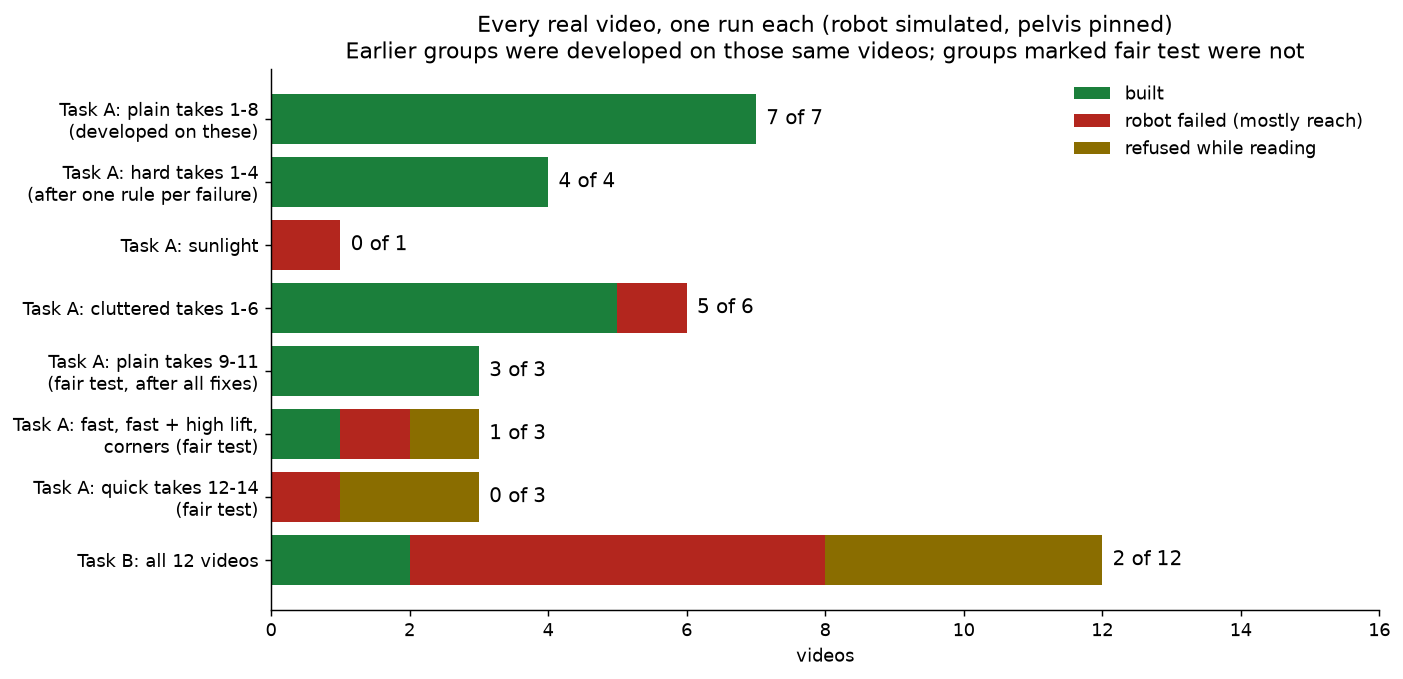
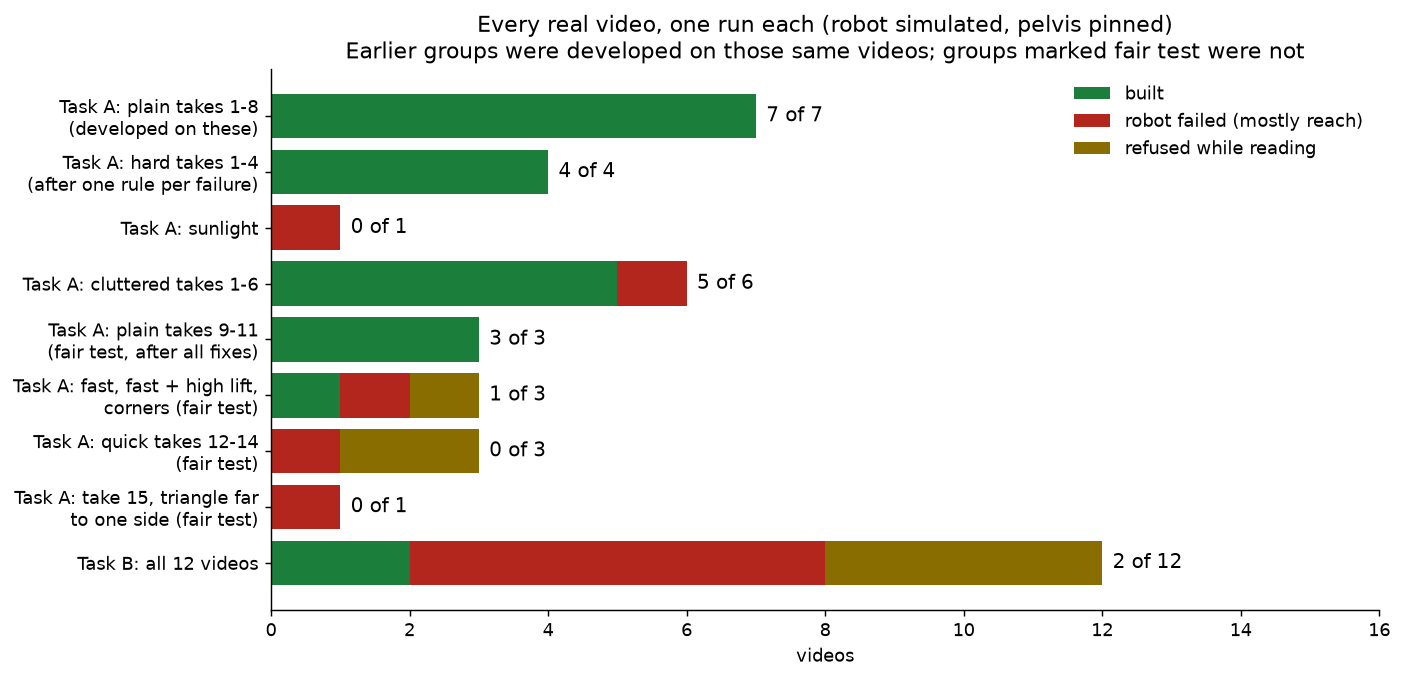
docs: results corrected - take 15 counted, quick moves all refused, no-AI baseline 3 of 9

diff --git a/scripts/make_analysis_charts.py b/scripts/make_analysis_charts.py
@@ -31,6 +31,7 @@ REAL_GROUPS = [
     ("Task A: plain takes 9-11\n(fair test, after all fixes)", 3, 0, 0),
     ("Task A: fast, fast + high lift,\ncorners (fair test)", 1, 1, 1),
     ("Task A: quick takes 12-14\n(fair test)", 0, 1, 2),
+    ("Task A: take 15, triangle far\nto one side (fair test)", 0, 1, 0),
     ("Task B: all 12 videos", 2, 6, 4),
 ]
 

diff --git a/CLAUDE.md b/CLAUDE.md
@@ -56,4 +56,4 @@ PYTHONPATH=. .venv/bin/python scripts/stress_retry.py   # measure what retries a
 - Target 80% test coverage on logic modules, writing tests first. Check simulator visuals and model wrappers through phase gates.
 
 ## Current status
-Real-video pipeline works on the user's steel glasses, with no marker: `scripts/glass_from_video.py`. Task A from `task2_triangle_right_take1` builds the triangle (one run). Task B from `task3_flip_right_take1` builds and flips with no glass moved (one run): the layout picks the arm and standing spot, and the robot starts there, since it can't walk. Standing-spot tests: 19 of 21 on the video's layout wobbled, 25 of 30 on random layouts (`scripts/stand_test.py`). Task A uses the nearest arm: 24 of 30 against 10 of 30 for the right arm on left-side layouts, no gain on spread layouts. Robot area tests: 28 of 30 for each task, pinned pelvis. Eight later Task A takes: 0 succeeded with the reader as it stood; after adding a rule for an unseen top glass, 4 were read and 2 succeeded with the left arm (takes 2 and 5, not a fair test of that rule). Four are refused because a starting glass is missed. Fair test of six later Task B takes in varied layouts: 0 succeeded (three refused, three robot failures). In a layout chosen to suit the robot, take 8 was refused and take 9 succeeded, with nothing changed (one run; that layout passed 3 of 6 when nudged). Optional two arms for Task A (`--two-arms`): a tie on random layouts (20 against 20, 22 against 21 of 30), better on takes 4 and 6, and real take 6 succeeds. Optional hand path (`--hand-path`, Task A): the robot copies the height and timing of the hand's carry, and takes 1, 2, 5 and 6 succeed (not a fair test). Optional VLM (Claude, key in `.env`): `--instruction` and `--find-glasses`. Task A is 8 of 9 real videos built with it (not a fair test), and in 10 of 10 cluttered simulated scenes it found exactly the glasses. Optional outcome model (`--choose-arms`): 26 of 30 fresh layouts, against 25 for a hand rule. With `--find-glasses --choose-arms`, 8 of 9 real Task A videos build with no options set by hand. Sorting (marker and colours) is earlier work, never run on real footage. Live hand control was built, tested live and removed on 4 Nov as unreliable (14-22% of frames followed in later tries); it's in git history, and its finger-closure measurement lives on in `src/perception/finger_closure.py`. Step checks (`src/verification/steps.py`) name the first failed step of every run: real Task B takes 2, 3 and 7 fail at reach, and standing 10 cm closer rescued take 2 (one run, not yet a rule). `notes.md` Part Two (chapters 14-20) covers the real videos and must be kept as a beginner's book with worked examples. The project's API key is named `VIDEO2ROBOT_CLAUDE_KEY`, not `ANTHROPIC_API_KEY`, because VS Code loads `.env` into terminals and Claude Code would otherwise bill coding to it. Claude now reads the first and last frames (`--find-glasses`), with rules for clutter, unused glasses, glints and hidden glasses: Task A builds 20 of the 27 videos kept, 20 of 29 counting 2 deleted as out of reach (not a fair test; fresh videos were 0 of 7 on their fair first run). The arm swap lifts the hands off the table with the waist held still. SAM 2 (optional, `.venv-sam`, `--sam-tracks`) follows glasses by shape and timed the sunlight video correctly, slowly. Every experiment goes in `docs/JOURNEY.md`. The repo is private until the user says otherwise.
+Real-video pipeline works on the user's steel glasses, with no marker: `scripts/glass_from_video.py`. Task A from `task2_triangle_right_take1` builds the triangle (one run). Task B from `task3_flip_right_take1` builds and flips with no glass moved (one run): the layout picks the arm and standing spot, and the robot starts there, since it can't walk. Standing-spot tests: 19 of 21 on the video's layout wobbled, 25 of 30 on random layouts (`scripts/stand_test.py`). Task A uses the nearest arm: 24 of 30 against 10 of 30 for the right arm on left-side layouts, no gain on spread layouts. Robot area tests: 28 of 30 for each task, pinned pelvis. Eight later Task A takes: 0 succeeded with the reader as it stood; after adding a rule for an unseen top glass, 4 were read and 2 succeeded with the left arm (takes 2 and 5, not a fair test of that rule). Four are refused because a starting glass is missed. Fair test of six later Task B takes in varied layouts: 0 succeeded (three refused, three robot failures). In a layout chosen to suit the robot, take 8 was refused and take 9 succeeded, with nothing changed (one run; that layout passed 3 of 6 when nudged). Optional two arms for Task A (`--two-arms`): a tie on random layouts (20 against 20, 22 against 21 of 30), better on takes 4 and 6, and real take 6 succeeds. Optional hand path (`--hand-path`, Task A): the robot copies the height and timing of the hand's carry, and takes 1, 2, 5 and 6 succeed (not a fair test). Optional VLM (Claude, key in `.env`): `--instruction` and `--find-glasses`. Task A is 8 of 9 real videos built with it (not a fair test), and in 10 of 10 cluttered simulated scenes it found exactly the glasses. Optional outcome model (`--choose-arms`): 26 of 30 fresh layouts, against 25 for a hand rule. With `--find-glasses --choose-arms`, 8 of 9 real Task A videos build with no options set by hand. Sorting (marker and colours) is earlier work, never run on real footage. Live hand control was built, tested live and removed on 4 Nov as unreliable (14-22% of frames followed in later tries); it's in git history, and its finger-closure measurement lives on in `src/perception/finger_closure.py`. Step checks (`src/verification/steps.py`) name the first failed step of every run: real Task B takes 2, 3 and 7 fail at reach, and standing 10 cm closer rescued take 2 (one run, not yet a rule). `notes.md` Part Two (chapters 14-20) covers the real videos and must be kept as a beginner's book with worked examples. The project's API key is named `VIDEO2ROBOT_CLAUDE_KEY`, not `ANTHROPIC_API_KEY`, because VS Code loads `.env` into terminals and Claude Code would otherwise bill coding to it. Claude now reads the first and last frames (`--find-glasses`), with rules for clutter, unused glasses, glints and hidden glasses: Task A builds 20 of the 28 videos kept, 20 of 30 counting 2 deleted as out of reach (not a fair test; fresh videos were 0 of 7 on their fair first run). The arm swap lifts the hands off the table with the waist held still. SAM 2 (optional, `.venv-sam`, `--sam-tracks`) follows glasses by shape and timed the sunlight video correctly, slowly. Every experiment goes in `docs/JOURNEY.md`. The repo is private until the user says otherwise.

diff --git a/docs/ANALYSIS.md b/docs/ANALYSIS.md
@@ -25,9 +25,10 @@ Every chart here comes from saved runs in [`results/`](results/). The robot is a
 | Task A, plain takes 9–11 | **3 of 3** | **Fair test:** recorded after every fix, camera moved, nothing changed |
 | Task A, fast / fast + high lift / corners | **1 of 3** | **Fair test.** Fast with a low lift built; a high lift at 4× speed was refused (two rests too short to see); corners were out of reach |
 | Task A, quick takes 12–14 | **0 of 3** | **Fair test.** Quick moves confused the timing (12, 13 refused); take 14 was read correctly but built against the robot's chest |
+| Task A, take 15 | **0 of 1** | **Fair test.** Read correctly; the triangle was far to the robot's right and the left arm carried glasses across the body to it |
 | Task B, all 12 videos | 2 of 12 | Most glasses are beyond a robot that can't walk; the 3 cluttered takes were read correctly |
 
-**Task A in total: 20 of 27 videos kept** (20 of 29 counting 2 deleted as out of reach). **On fair tests only** (cluttered takes 4–6 and everything recorded after the last fix): **6 of 12**. Both numbers matter: the system works on videos like the ones it was built on, and new kinds of video (very fast moves, glasses at the corners, triangles near the robot's chest) still find its limits.
+**Task A in total: 20 of 28 videos kept** (20 of 30 counting 2 deleted as out of reach). **On fair tests only** (cluttered takes 4–6 and everything recorded after the last fix): **6 of 13**. Both numbers matter: the system works on videos like the ones it was built on, and new kinds of video (very fast moves, glasses at the corners, triangles near the robot's chest) still find its limits.
 
 ---
 
@@ -83,7 +84,7 @@ Simulator layouts drawn on my camera's view, where one choice built the triangle
 | Cause | Videos | Fix it would need |
 |---|---|---|
 | Triangle built against the robot's chest | Sunlight, clutter take 4, take 14 | Let the robot step back, or test and tune that strip of the table |
-| A glass carried from one far side to the other, close to the robot's body | Take 14: a glass starting at one far side is carried across to the triangle near the robot's chest, so the arm crosses the body at close range | Two arms helped (tower 30 → 2 cm off) but not enough; build the triangle further in |
+| A glass carried from one far side to the other, close to the robot's body | Takes 14 and 15: a glass starting at one far side is carried across to the triangle near the robot's chest, so the arm crosses the body at close range | Two arms helped (tower 30 → 2 cm off) but not enough; build the triangle further in |
 | Glasses beyond reach | Task B takes 2, 3, 7, clutter 1, 2; Task A corners | Let the robot walk or step to the side |
 | Moves too quick to time | Fast + high lift, takes 12, 13 | Accept short pauses, or use Claude's start and end positions when the timing is impossible |
 | A starting glass missed | Task B takes 4, 5, 8, clutter 3 | Better reading for the flip |

diff --git a/README.md b/README.md
@@ -265,10 +265,10 @@ sam_reader:
 
 | Task | Without AI | With Claude | Notes |
 |---|:---:|:---:|---|
-| **Task A**, my first 9 videos | 4 of 9 | **8 of 9** | Claude rescued 4 videos where the reader missed a glass. One video, a glass beyond the robot's reach, was later excluded by me |
+| **Task A**, my first 9 videos | 3 of 9 (4 with two arms) | **8 of 9** | Claude rescued 4 videos where the reader missed a glass. One video, a glass beyond the robot's reach, was later excluded by me |
 | **Task A**, 7 fresh hard videos (clutter, an unused glass, glints, a moving plug, sunlight) | not run | **0 of 7** on their fair first run → **6 of 7** after one rule per failure | Not a fair test after the fixes. Sunlight still fails: the tower was too close to the robot's chest |
-| **Task A**, all 27 videos I kept, final system | not run | **20 of 27** | Developed on many of them. **On fair tests only, 6 of 12.** Failures: triangles built too close to the robot's chest (3), glasses at the far corners, and very quick moves (3, two refused). 2 more videos deleted as beyond reach; counting them, 20 of 29 |
-| **Task B**, all 12 of my videos | 2 of 9 | **2 of 12** | Most failures are glasses beyond a robot that can't walk. The 3 newest, on cluttered tables, are read correctly by Claude's rules, but the glasses are out of reach |
+| **Task A**, all 28 videos I kept, final system | not run | **20 of 28** | Developed on many of them. **On fair tests only, 6 of 13.** Failures: triangles built too close to the robot's chest (3), glasses at the far corners, very quick moves (3, all refused), and a glass carried across the robot's body to a triangle far to one side (take 15). 2 more videos deleted as beyond reach; counting them, 20 of 30 |
+| **Task B**, all 12 of my videos | 2 of 9 (first 9) | **2 of 12** | Most failures are glasses beyond a robot that can't walk. The 3 newest, on cluttered tables, are read correctly by Claude's rules, but the glasses are out of reach |
 
 **What the robot can do, with exact simulator positions:**
 
@@ -276,7 +276,7 @@ sam_reader:
 |---|:---:|
 | Task A, 30 random layouts in its working area | **28 of 30** |
 | Task B, 30 random layouts in its working area | **28 of 30** |
-| Arm choice on 60 new layouts: always one arm / always two / hand rule / **logistic regression** / best possible | 43 / 44 / 49 / **50** / 51 |
+| Arm choice on 60 new layouts: always one arm / always two / hand rule / **logistic regression** / best possible (before the 5 Nov two-arm bias) | 43 / 44 / 49 / **50** / 51 |
 | Claude finding glasses on 10 cluttered simulated tables | **10 of 10** |
 
 **Robot videos:**

diff --git a/PLAN.md b/PLAN.md
@@ -43,7 +43,7 @@ video -> keyframes -> tracked objects + table positions (cm) -> plan.json -> G1 
 | Task B reach | Real takes 2, 3 and 7 fail at reach: glasses 20-39 cm from the person's edge of the table, beyond the tested 13-19 cm for starting glasses. Standing 10 cm closer, take 2 succeeds (one run); take 7 still misses the fourth glass by 5 cm; take 3's glass is 47 cm to the side. Not yet a rule in the system |
 | notes.md | Rebuilt Part Two (chapters 14-22) as a from-scratch book for the real videos, with worked examples |
 | Journey | `docs/JOURNEY.md`: about 40 ideas in seven stages, each with problem, test, before → after, kept or dropped; summarised in the README. Every new experiment is added there |
-| Claude reads both ends (version 3) | Claude points at glasses in the first and last frames; the frame-by-frame reader times the moves. Rules for clutter, unused glasses, glints and hidden glasses, each from a fresh video that first failed. Task A: 20 of the 27 videos kept build, 20 of 29 counting 2 deleted as out of reach (not a fair test); 7 fresh videos were 0 of 7 on their fair first run |
+| Claude reads both ends (version 3) | Claude points at glasses in the first and last frames; the frame-by-frame reader times the moves. Rules for clutter, unused glasses, glints and hidden glasses, each from a fresh video that first failed. Task A: 20 of the 28 videos kept build, 20 of 30 counting 2 deleted as out of reach (not a fair test); 7 fresh videos were 0 of 7 on their fair first run |
 | Arm swap | Hands rise, pass beside the body off the table, waist held still (the user's idea): hard takes 1 and 2 build, take 4 (a glass at the edge of reach) lost |
 | SAM 2 (version 4, optional) | SAM 2.1 tiny in a separate environment follows each glass by shape; in sunlight it timed the moves correctly where shiny tops didn't. About 70 minutes per video on this Mac |
 | Real-world reel | `docs/videos/reel_real_world.mp4`, 3.5 minutes |

diff --git a/docs/JOURNEY.md b/docs/JOURNEY.md
@@ -153,6 +153,7 @@ Fresh videos with shiny clutter that moves: a plug, a charger, an earbud case, a
 | 10.8 | Harder fresh videos | No change: glasses at the corners; moves 4× faster with a low lift; 4× faster with a high lift | 3 real videos | Fast, low lift: **built**, 0.2 cm off. Corners: read correctly, robot **failed at reach** (far corner). Fast, high lift: **refused**, 4 of 6 rests found | Kept; limits recorded |
 | 10.9 | Take 14 (slow moves) read correctly, but the robot used one arm and reached across its body for a glass on its right | Bias the logistic regression model toward two arms: one arm only if its predicted chance is more than 10 points higher | Take 14 | Still failed, but tower 30 → **2 cm** off. My observation: it fails when a glass is carried from one far side to the other, close to the robot | Kept (`two_arms_margin: 0.10`); other videos not yet rechecked |
 | 10.10 | Quick takes 12, 13 | No change | 2 real videos | Both refused: the reader's timing of quick moves was impossible | Open |
+| 10.11 | Take 15: triangle far to the robot's right; the left arm carried two glasses across the body | Tried: build a far-to-one-side triangle with that side's arm only | Not run to the end | Reverted at my request before testing | Dropped |
 
 ## Ideas discussed but not built
 - **A recurrent network (RNN/GRU) trained on demos.** Suggested in a plan, but not built: there was no time to collect training data. Nothing in this project is trained except the 16-weight logistic regression model.

diff --git a/notes.md b/notes.md
@@ -51,7 +51,7 @@ Imagine you sit at a table and film yourself putting an apple in a box. You hand
 
 Doing this on a real humanoid would be expensive and risky, so we use a **simulator**: a program that acts like a video game with accurate physics. If the robot's fingers don't squeeze hard enough in the simulator, the object really does slip.
 
-**Where we are (5 Nov):** the robot now learns from **your real webcam videos** of steel glasses. For Task A, the triangle, it builds 20 of the 27 videos kept (20 of 29 counting 2 deleted as out of reach). For Task B, the flip, it builds 2 of 12; most failures are glasses too far for a robot that can't walk. The challenge's hard rule is met: the plan and every glass position come from your video.
+**Where we are (5 Nov):** the robot now learns from **your real webcam videos** of steel glasses. For Task A, the triangle, it builds 20 of the 28 videos kept (20 of 30 counting 2 deleted as out of reach). For Task B, the flip, it builds 2 of 12; most failures are glasses too far for a robot that can't walk. The challenge's hard rule is met: the plan and every glass position come from your video.
 
 **To read the project as a story of ideas, from the first failure to today, start with chapter 21.** Chapters 1 to 13 explain the ideas using the first version, which sorted coloured blocks. **Part Two (chapters 14 to 22) covers your real videos**, and chapter 20 has the numbers to quote.
 
